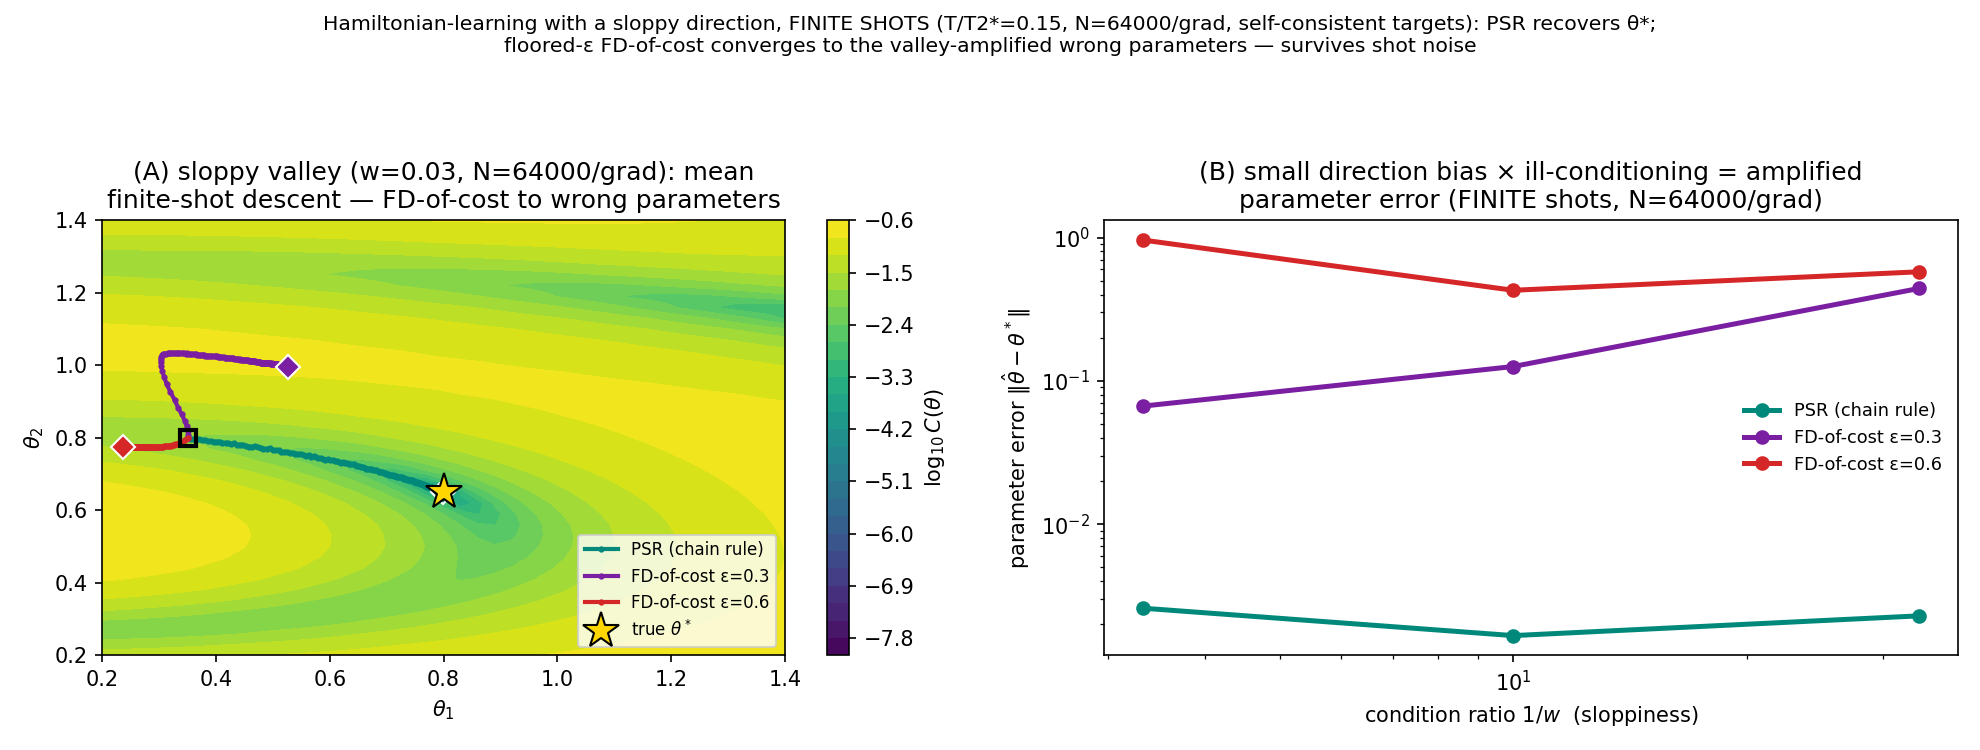
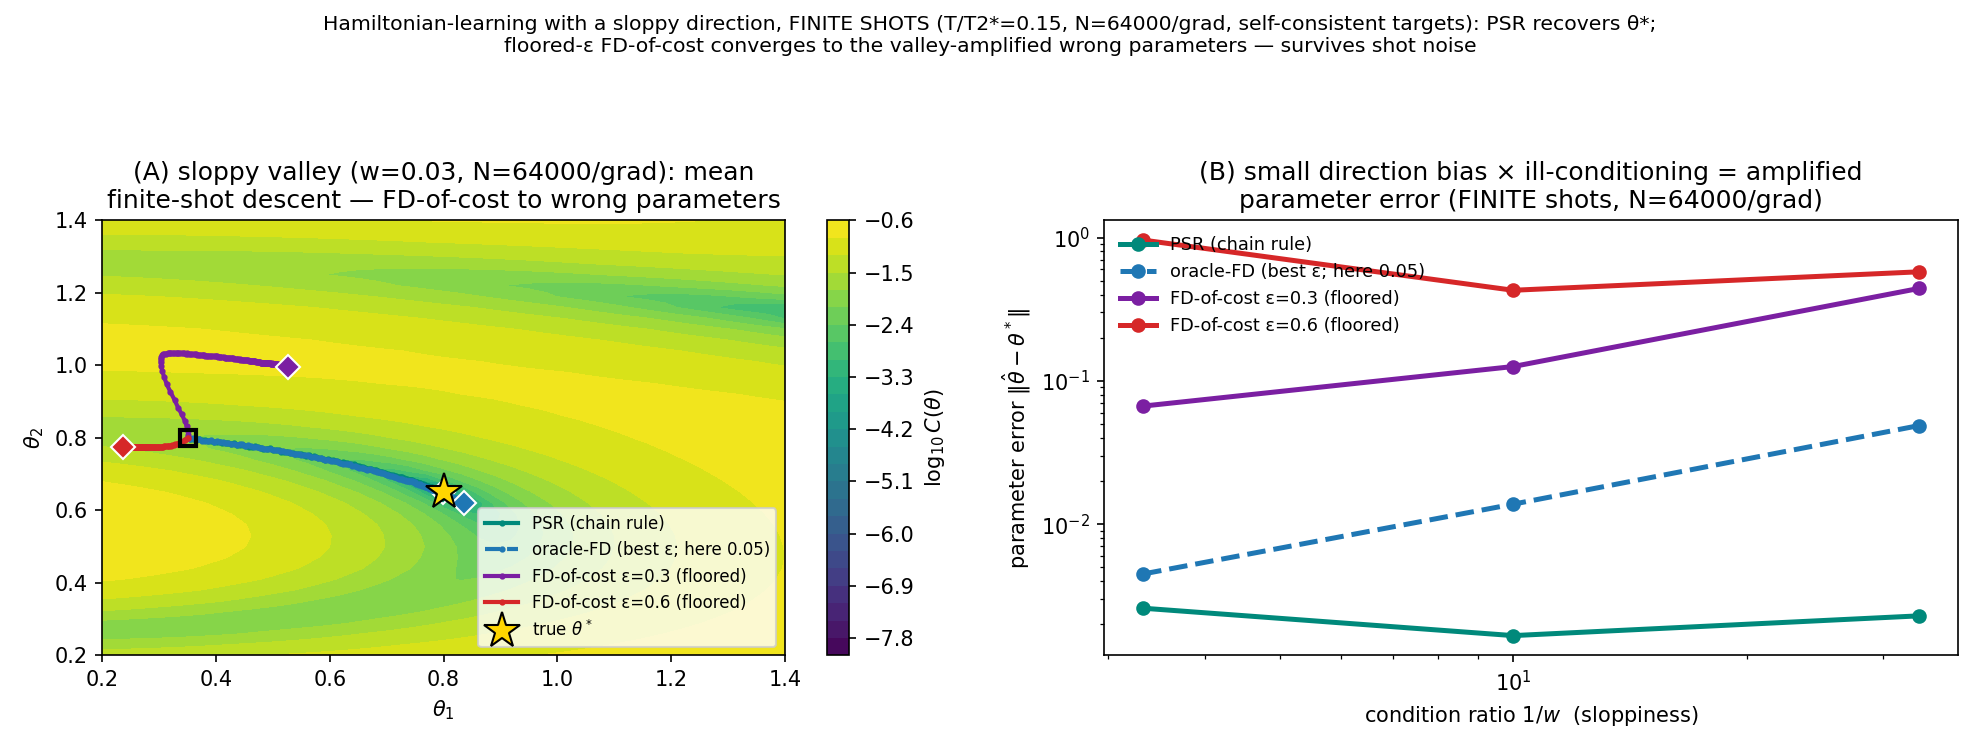
sloppy_valley_finite: add oracle-FD line (matches inf-shot at N=64000)
Adds oracle-FD (best eps in [0.05..0.6] per w) to the finite-shot sloppy valley,
same as sloppy_valley.png. At this high budget (N=64000) the oracle still picks
the smallest eps=0.05 at every w (shot variance at eps=0.05 is negligible vs the
truncation bias), so oracle-FD matches the inf-shot result almost exactly:
0.004/0.014/0.049 as 1/w = 3.3/10/33 - amplified by the valley, ~10x better than
floored eps=0.3, but ~25x worse than PSR at the sloppiest point. The finite-shot
eps-dilemma (oracle forced to larger eps by variance) would only appear at lower
budgets; at 64k the story matches the deterministic version. Blue dashed line,
panels A+B. Suite 227.

diff --git a/differential_computing/tests/sloppy_valley_finite.py b/differential_computing/tests/sloppy_valley_finite.py
@@ -44,6 +44,7 @@ W_SWEEP = [0.3, 0.1, 0.03]
 W_SHOW = 0.03
 N_G = 64000                       # high finite budget → bias-dominated
 EPS_FLOORS = [0.3, 0.6]
+EPS_ORACLE = [0.05, 0.1, 0.15, 0.2, 0.3, 0.45, 0.6]   # oracle sweeps these
 K_STEPS, R_SEEDS, ETA = 260, 16, 0.12
 START = (0.35, 0.8)               # sloppy_valley's verified start
 POOL, NS_CAP, CELL = 48, 400, 0.05
@@ -185,7 +186,8 @@ def main():
         keys = ["psr", f"fd{EPS_FLOORS[0]}", f"fd{EPS_FLOORS[1]}"]
         d = {"theta_star": list(THETA_STAR), "start": list(START),
              "N_g": N_G, "w_sweep": W_SWEEP, "w_show": W_SHOW,
-             "err": {k: [] for k in keys}, "paths": {}}
+             "err": {k: [] for k in keys + ["oracle_fd"]}, "paths": {},
+             "oracle_eps": []}
         for w in W_SWEEP:
             for (meth, eps), key in zip(methods, keys):
                 ends = np.array([descend(meth, w, eps, s)
@@ -198,6 +200,24 @@ def main():
                         [descend(meth, w, eps, s, keep_path=True)
                          for s in range(6)], axis=0).tolist()
                 print(f"  w={w} {key}: rms {d['err'][key][-1]:.3f}", flush=True)
+            # oracle-FD: best eps per w (balances truncation bias vs the shot-
+            # noise 1/eps blow-up — the finite-shot eps-dilemma).
+            best = None
+            for e in EPS_ORACLE:
+                ends = np.array([descend("fd", w, e, s) for s in range(R_SEEDS)])
+                er = np.hypot(ends[:, 0] - THETA_STAR[0],
+                              ends[:, 1] - THETA_STAR[1])
+                rms = float(np.sqrt(np.mean(er ** 2)))
+                if best is None or rms < best[0]:
+                    best = (rms, float(e))
+            d["err"]["oracle_fd"].append(best[0])
+            d["oracle_eps"].append(best[1])
+            if abs(w - W_SHOW) < 1e-9:
+                d["paths"]["oracle_fd"] = np.mean(
+                    [descend("fd", w, best[1], s, keep_path=True)
+                     for s in range(6)], axis=0).tolist()
+            print(f"  w={w} oracle_fd: rms {best[0]:.3f} (eps {best[1]:g})",
+                  flush=True)
         # contour
         gx = np.linspace(DOM[0], DOM[1], 41)
         LC = [[float(np.log10((noisy(a, b)[0] - target[0]) ** 2
@@ -212,12 +232,17 @@ def main():
     gx = np.array(d["gx"])
     cs = axA.contourf(gx, gx, np.array(d["LC"]), levels=24, cmap="viridis")
     fig.colorbar(cs, ax=axA, label=r"$\log_{10} C(\theta)$")
-    sty = {"psr": ("#00897b", "PSR (chain rule)"),
-           f"fd{EPS_FLOORS[0]}": ("#7b1fa2", f"FD-of-cost ε={EPS_FLOORS[0]}"),
-           f"fd{EPS_FLOORS[1]}": ("#d62728", f"FD-of-cost ε={EPS_FLOORS[1]}")}
-    for k, (c, lab) in sty.items():
+    oe = d["oracle_eps"][d["w_sweep"].index(W_SHOW)]
+    sty = {"psr": ("#00897b", "-", "PSR (chain rule)"),
+           "oracle_fd": ("#1f77b4", "--", f"oracle-FD (best ε; here {oe:g})"),
+           f"fd{EPS_FLOORS[0]}": ("#7b1fa2", "-",
+                                  f"FD-of-cost ε={EPS_FLOORS[0]} (floored)"),
+           f"fd{EPS_FLOORS[1]}": ("#d62728", "-",
+                                  f"FD-of-cost ε={EPS_FLOORS[1]} (floored)")}
+    for k, (c, ls, lab) in sty.items():
         p = np.array(d["paths"][k])
-        axA.plot(p[:, 0], p[:, 1], color=c, lw=2, marker="o", ms=2, label=lab)
+        axA.plot(p[:, 0], p[:, 1], color=c, lw=2, marker="o", ms=2, ls=ls,
+                 label=lab)
         axA.plot(*p[-1], "D", color=c, ms=8, mec="w")
     axA.plot(*d["theta_star"], "*", color="#ffd600", ms=18, mec="k",
              label=r"true $\theta^*$")
@@ -228,8 +253,8 @@ def main():
     axA.legend(frameon=True, fontsize=8, loc="lower right")
 
     ws = np.array(d["w_sweep"])
-    for k, (c, lab) in sty.items():
-        axB.loglog(1 / ws, d["err"][k], "o-", color=c, lw=2.4, label=lab)
+    for k, (c, ls, lab) in sty.items():
+        axB.loglog(1 / ws, d["err"][k], "o" + ls, color=c, lw=2.4, label=lab)
     axB.set_xlabel(r"condition ratio $1/w$  (sloppiness)")
     axB.set_ylabel(r"parameter error $\|\hat\theta-\theta^*\|$")
     axB.set_title("(B) small direction bias × ill-conditioning = amplified\n"
